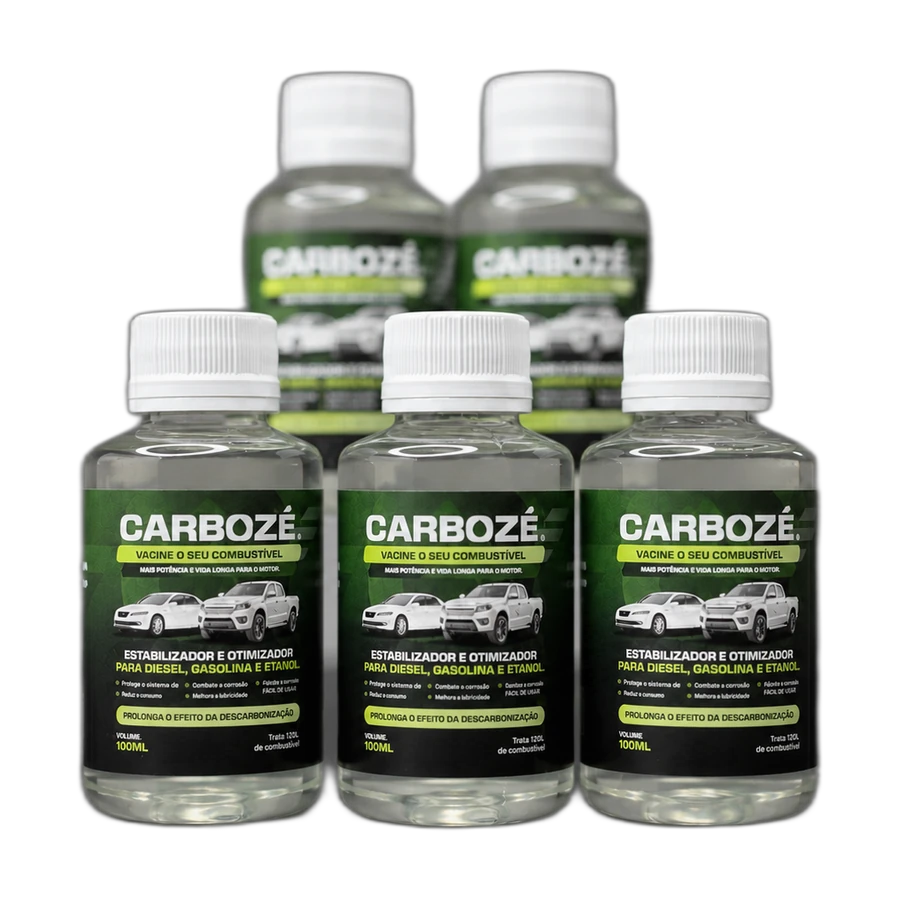
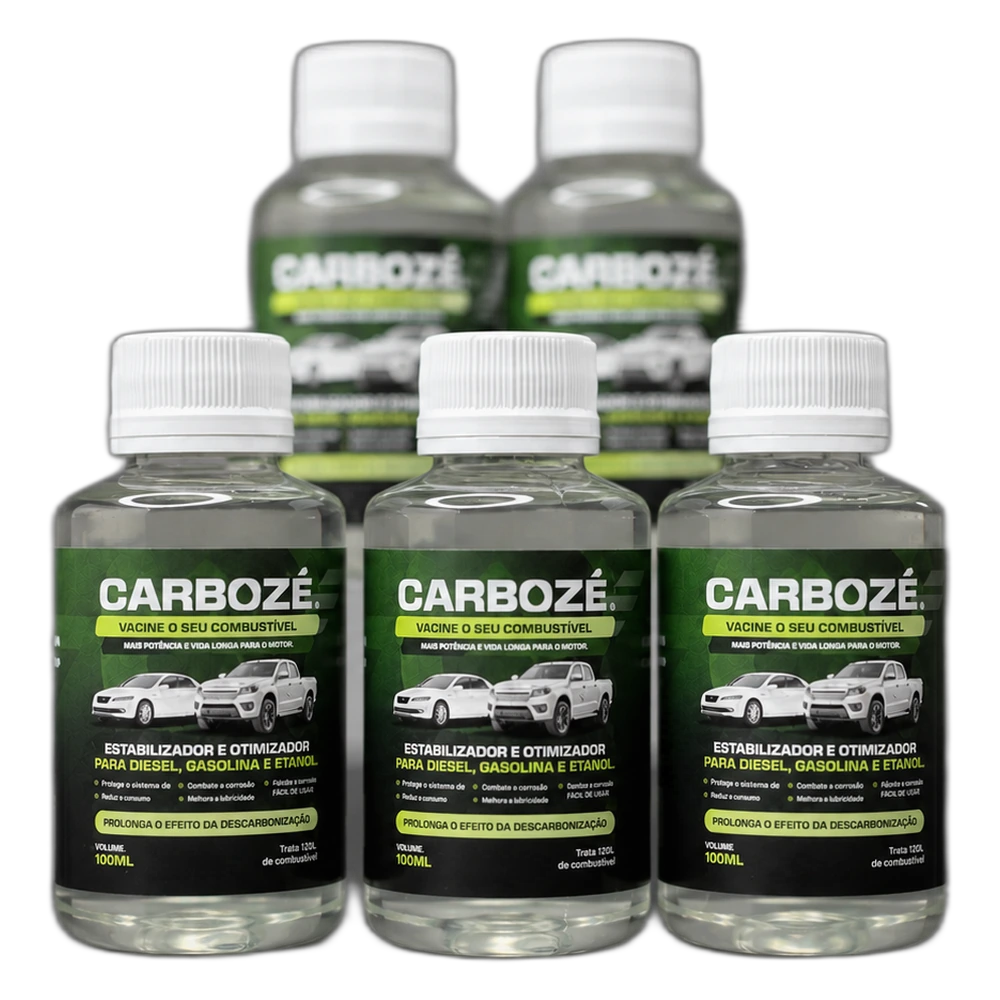
feat(precos): packshot maior e em palco escuro nos cards
Produto estava pequeno demais no card, com respiro sobrando.

Assets: padding cai de 7% para ~3% e os dois passam a ser normalizados pela
ALTURA (94% do quadro), nao encaixados numa caixa. Antes sache ocupava 97%
e frascos 88% — desequilibrio visivel lado a lado. Agora ocupam o mesmo
espaco apesar de um ser retrato e o outro quase quadrado.

Tile deixa de ser cinza-claro e vira palco: fundo verde-escuro, halo limao
atras do produto, vinheta nos cantos, sombra eliptica de piso e drop-shadow
no produto. Alem do ar premium, o fundo escuro separa a foto do corpo claro
do card e puxa o olho para o produto antes do preco.

Padding do Image cai de p-5 para p-2 — com o recorte ja apertado, o respiro
extra so encolhia o produto.

diff --git a/components/lovable/FotoProduto.tsx b/components/lovable/FotoProduto.tsx
@@ -1,25 +1,52 @@
 import Image from "next/image";
 
 /**
- * Foto do produto no topo do card de preço.
+ * Packshot no topo do card de preço.
  *
- * Os arquivos têm fundo recortado, então o produto flutua sobre um tile de
- * tom de marca em vez de carregar o cinza do estúdio para dentro do card.
+ * Tratamento de "palco": fundo verde-escuro com um halo limão atrás do
+ * produto e vinheta nas bordas. O recorte tem alfa, então o produto flutua
+ * sobre esse palco em vez de carregar o cinza do estúdio para dentro do card.
+ * O fundo escuro também separa a foto do corpo claro do card, o que puxa o
+ * olho para o produto antes do preço.
  *
- * `object-contain` porque sachê (retrato) e frasco (paisagem) têm formatos
- * diferentes — cortar deixaria um dos dois desproporcional. Os dois assets
- * foram gerados com o produto na mesma altura útil, então os cards ficam
- * visualmente equilibrados mesmo sem corte.
+ * `object-contain` porque sachê (retrato) e frasco (quase quadrado) têm
+ * formatos diferentes — cortar deixaria um dos dois desproporcional. Os dois
+ * assets foram gerados com o produto na MESMA altura (94% do quadro), então
+ * ocupam o mesmo espaço visual apesar da diferença de formato.
  */
 export default function FotoProduto({ src, alt }: { src: string; alt: string }) {
   return (
-    <div className="relative w-full aspect-[4/3] rounded-xl overflow-hidden border border-verde-escuro/[0.08] bg-gradient-to-b from-verde-escuro/[0.07] to-verde-escuro/[0.015]">
+    <div className="relative w-full aspect-[4/3] rounded-xl overflow-hidden bg-verde-escuro">
+      {/* Halo limão atrás do produto */}
+      <div
+        className="absolute inset-0"
+        style={{
+          background:
+            "radial-gradient(ellipse 62% 55% at 50% 46%, rgba(169,218,0,0.22), rgba(169,218,0,0.05) 55%, transparent 72%)",
+        }}
+        aria-hidden="true"
+      />
+      {/* Vinheta — aprofunda os cantos e destaca o centro */}
+      <div
+        className="absolute inset-0"
+        style={{
+          background:
+            "radial-gradient(ellipse 75% 70% at 50% 50%, transparent 40%, rgba(0,0,0,0.45) 100%)",
+        }}
+        aria-hidden="true"
+      />
+      {/* Piso: sombra elíptica que apoia o produto */}
+      <div
+        className="absolute left-1/2 -translate-x-1/2 bottom-[6%] w-[62%] h-[7%] rounded-[50%] blur-md"
+        style={{ background: "rgba(0,0,0,0.5)" }}
+        aria-hidden="true"
+      />
       <Image
         src={src}
         alt={alt}
         fill
         sizes="(max-width: 768px) 90vw, 420px"
-        className="object-contain p-5"
+        className="object-contain p-2 drop-shadow-[0_10px_24px_rgba(0,0,0,0.45)]"
       />
     </div>
   );
